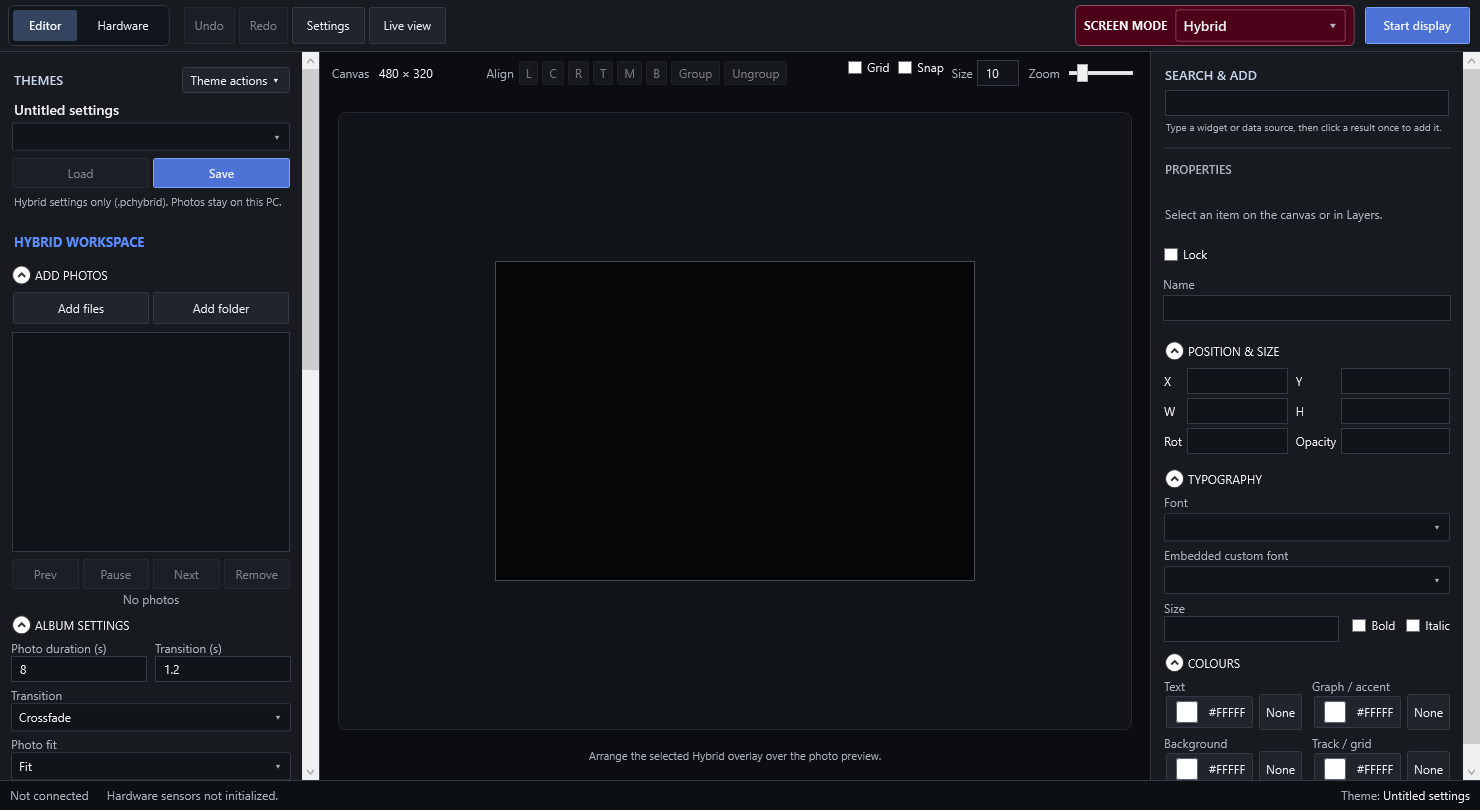
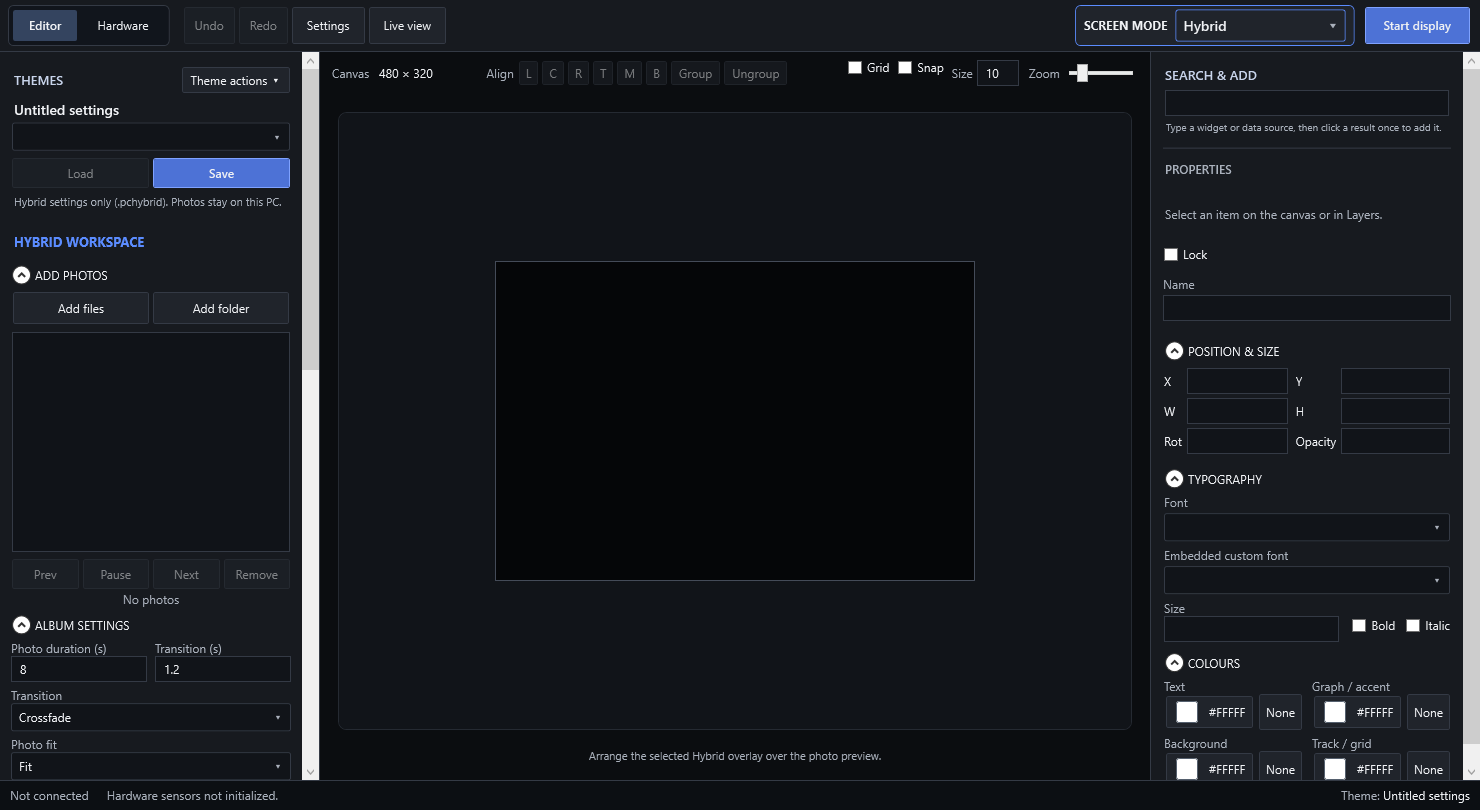
Refresh charcoal interface screenshots and explain folder theme loading [skip ci]

Changed region(s): [[0.7149, 0.0, 0.9324, 0.0617]]

diff --git a/README.md b/README.md
@@ -44,9 +44,9 @@ Each mode has a **Themes** panel with visible **Load** and **Save** buttons. The
 
 ### Settings window
 
-Open **Settings** from the top bar to manage screen connection, runtime, sensor access and editor preferences. Hardware and Settings pages use a burgundy `#4D0219` background with white and silver text. **Use live sensor data** stays checked because live readings are always enabled.
+Open **Settings** from the top bar to manage screen connection, runtime, sensor access and editor preferences. Hardware and Settings pages use an almost-black charcoal `#101216` background with white and silver text. **Use live sensor data** stays checked because live readings are always enabled.
 
-![Settings window with burgundy background, readable silver and white text, and the checked live-sensor indicator](docs/images/settings-window.png)
+![Settings window with charcoal background, readable silver and white text, and the checked live-sensor indicator](docs/images/settings-window.png)
 
 ## Editor and Hardware pages
 
@@ -54,7 +54,7 @@ Use **Editor** to build your screen and **Hardware** to view PC hardware names a
 
 Theme actions are now in **Themes** on the left for each mode. Choose a theme and select **Load**, or use **Save** and **Theme actions** for New, Open, Save as, Duplicate, Rename, Delete and Refresh. Ctrl+N, Ctrl+O, Ctrl+S and Ctrl+Shift+S use the active mode's file format. Editor shortcuts are suspended while viewing Hardware.
 
-Photo Frame (`.pcphoto`) and Hybrid (`.pchybrid`) themes save settings in their separate folders; photos stay on the PC and the current playlist is retained when loading a settings theme. Info Screen uses `.t3theme` files. Use **Save playlist** to save photo links separately.
+Photo Frame (`.pcphoto`) and Hybrid (`.pchybrid`) themes save settings in their separate folders; photos stay on the PC. Themes remember the selected photo folder and reload its photos when opened. Themes without a folder keep the current playlist. Info Screen uses `.t3theme` files. Use **Save playlist** to save photo links separately.
 
 ## Download and run
 
@@ -88,7 +88,7 @@ The prominent **SCREEN MODE** selector changes the left panel to show controls r
 | Photo Frame | A photo playlist with shared slideshow and caption settings | `.pcphoto` settings in `Documents/PC Info Screen Studio/Photo Frame Themes` |
 | Hybrid | Photos with a separate set of information overlays | `.pchybrid` settings and overlays in `Documents/PC Info Screen Studio/Hybrid Themes` |
 
-Photo Frame and Hybrid themes do **not** embed photos or replace your current playlist. Photos remain on your PC. Use **Save playlist** / **Load playlist** to store and restore photo references separately as a `.pcalbum` preset. Keep linked files available at their saved locations; these presets are not portable photo bundles.
+Photo Frame and Hybrid themes do **not** embed photos. **Add folder** remembers the folder in the mode theme; opening that theme reloads its photos, including subfolders, whether folder watching is on or off. Hybrid themes also preserve exact overlay positions and layer settings. Themes without a saved folder keep the current playlist. Photos remain on your PC. Use **Save playlist** / **Load playlist** to store and restore photo references separately as a `.pcalbum` preset. Keep linked files available at their saved locations; these presets are not portable photo bundles. For older themes saved without a folder path, choose **Add folder** once and save the mode theme again.
 
 ### Info Screen editing
 
@@ -105,7 +105,7 @@ Live sensor data is always enabled. The checked **Use live sensor data** option 
 
 ### Photo Frame and Hybrid
 
-- Under **ADD PHOTOS**, add multiple files or a folder. Drag playlist entries to reorder; use previous, pause/play, next, and remove controls.
+- Under **ADD PHOTOS**, add multiple files or a folder. Save the mode theme to remember the folder for next time; use a playlist preset to preserve individually selected files or a custom order. Drag playlist entries to reorder; use previous, pause/play, next, and remove controls.
 - Set a shared display duration, transition duration, loop, shuffle, and Fit/Fill/Stretch behaviour.
 - Choose Crossfade, Slide, Zoom, Instant, or Random transitions **between** photos. There is no continuous pan-and-zoom animation.
 - Choose a solid background colour.
